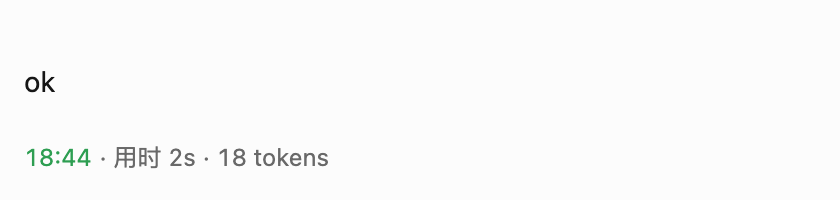
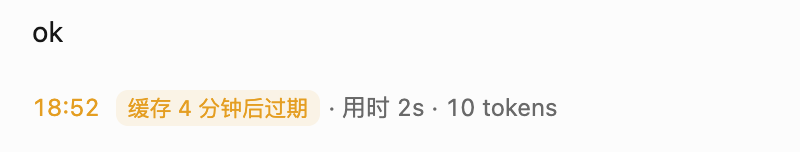
cache-clock 1.1: say nothing while warm, a pill when about to expire or expired; TTL and warning time as settings

diff --git a/cache-clock/index.tsx b/cache-clock/index.tsx
@@ -1,0 +1,30 @@
+/// <reference path="../gerdr.d.ts" />
+// Is the prompt cache still warm? Watches the time under the newest finished Claude Code turn:
+// nothing while the cache surely holds, a yellow note in its last minutes, a red one once it expired — then the next message
+// reads the whole conversation at full price (and slower).
+//
+// The cache lives TTL minutes from the start of the last request that read or wrote it (Claude Code on a subscription
+// uses the 1-hour TTL; API keys and usage overage get 5 minutes: set it in Settings → Add-ons). The turn's end
+// time is a little later than that start, so the estimate errs on the warm side by the last request's own duration.
+
+export default defineAddon({
+  setup(g) {
+    return g.turnStat((t) => {
+      if (!t.latest || !t.ts || t.agent !== "claude") return;
+      // Read each time: a change in Settings → Add-ons applies at once
+      const ttl = (g.settings.get<number>("ttlMinutes") || 60) * 60_000;
+      const warn = Math.min((g.settings.get<number>("warnMinutes") || 10) * 60_000, ttl);
+      const left = t.ts + ttl - t.now;
+      // Warm: say nothing, the line stays as it was. Only the last stretch and the expired state speak up, in a small
+      // pill beside the time (text, not a tooltip: a phone has no hover)
+      if (left >= warn) return;
+      const expired = left <= 0;
+      const text = expired ? "缓存已过期" : left < 60_000 ? "缓存不到 1 分钟就过期" : `缓存 ${Math.round(left / 60_000)} 分钟后过期`;
+      return {
+        className: expired ? "text-bad" : "text-warn",
+        title: expired ? "下一句会全价重读整段对话" : undefined,
+        after: <span className={g.ui.cn("ml-1 rounded-sm px-1.5 text-[11px] leading-[18px]", expired ? "bg-bad/10 text-bad" : "bg-warn/10 text-warn")}>{text}</span>,
+      };
+    });
+  },
+});

diff --git a/gerdr.d.ts b/gerdr.d.ts
@@ -4,7 +4,10 @@
 // An add-on is a folder in the add-on directory (~/.gerdr/addons/<id>/):
 //
 //   addon.json   optional: {"name": "…", "version": "1.0.0", "description": "…", "icon": "icon.png",
-//                           "main": "index.ts", "service": {…}}
+//                           "screenshots": ["shot.png"], "main": "index.ts", "service": {…}, "settings": [AddonSetting…]}
+//                "settings" become a form in Settings → Add-ons; read them with g.settings.get(key):
+//                  {"key": "ttl", "title": "缓存时长", "type": "number", "default": 60, "min": 1, "max": 1440, "unit": "分钟"}
+//                type: number / string / boolean / select (with "options": [{"value": 5, "label": "5 分钟"}])
 //   index.ts     the UI half (or what "main" names): export default defineAddon({...}). It may import other files of
 //                the folder; images, sounds and other files it ships are reached with g.asset("icon.png").
 //
@@ -185,6 +188,15 @@ declare global {
       runCommand(id: string): Promise<void>;
       /** Append text to a session's composer (what is typed there, not sent). */
       insertText(sessionId: string, text: string): void;
+    };
+
+    /**
+     * The values of addon.json "settings" as set in Settings → Add-ons (the default until changed). Stored by gerdr,
+     * the same in every window and device. Read it when you need it rather than once in setup: a change made in
+     * Settings shows up here without reloading the add-on.
+     */
+    settings: {
+      get<T = unknown>(key: string): T;
     };
 
     /** The add-on's own small storage (kept in this browser / App). */

diff --git a/cache-clock/README.md b/cache-clock/README.md
@@ -1,16 +1,26 @@
 # 缓存时钟
 
-最新一轮下面那个时间（`18:44 · 用时 2s · 18 tokens`）按 Claude Code 的提示缓存还剩多久变色：
+Claude Code 的提示缓存还在时什么都不显示。快过期时，最新一轮下面的时间变黄，旁边出现「缓存 N 分钟后过期」；过期了变红，显示「缓存已过期」—— 这时候下一句会全价重读整段对话，也更慢。
 
-- **绿色**：缓存还在，下一句便宜又快；
-- **黄色**：快过期了（最后 15%，按 1 小时算是最后 9 分钟）；
-- **红色**：已经过期，下一句要全价重读整段对话，也更慢。
+![快过期](screenshot.png)
 
-![缓存时钟](screenshot.png)
+![已过期](screenshot-expired.png)
 
-鼠标停在时间上能看到大概还剩几分钟。只看 Claude Code 会话的最新一轮（更早的那几轮的时间跟缓存无关）。
+只看 Claude Code 会话的最新一轮（更早几轮的时间跟缓存无关）。
 
-- 默认按 **1 小时**算：订阅账号的 Claude Code 用的是 1 小时缓存。用 API key、或者进了超额用量时是 5 分钟 —— 命令面板里「缓存时钟：切换 1 小时 / 5 分钟」。
-- 是估算：缓存从这一轮**最后一次请求开始**时算起，而这里用的是这一轮结束的时间，所以会比实际多估出最后那次请求自己的耗时（一般几秒到一两分钟）。
+## 设置
 
-用到的扩展能力：`g.turnStat` 装饰每轮下面那行、`g.command`、`g.storage`。
+在「设置 → 扩展 → 已安装 → 缓存时钟 → 设置」里改：
+
+- **缓存时长**（默认 60 分钟）：订阅账号的 Claude Code 是 60；用 API key 或进了超额用量是 5。
+- **提前多久提醒**（默认 10 分钟）：离过期还剩这么久时出现黄色提示。
+
+![设置](screenshot-settings.png)
+
+设置存在 gerdr 里，电脑和手机上一样，改了马上生效。
+
+## 准不准
+
+是估算：缓存从这一轮**最后一次请求开始**时算起，这里用的是这一轮结束的时间，所以会多估出最后那次请求自己的耗时（一般几秒到一两分钟）。
+
+用到的扩展能力：`g.turnStat` 装饰每轮下面那行、`addon.json` 的 `settings` + `g.settings.get`。

diff --git a/README.md b/README.md
@@ -6,7 +6,7 @@
 |---|---|
 | [今日](today) | 侧栏显示今天跑完了几个任务、花了多少钱，点开看 7 天 |
 | [额度条](usage-meter) | 侧栏底部常驻 Claude Code / Codex 的额度和重置时间 |
-| [缓存时钟](cache-clock) | 最新一轮的时间按提示缓存还剩多久变色：绿 / 黄 / 红 |
+| [缓存时钟](cache-clock) | 提示缓存快过期 / 已过期时，在最新一轮的时间旁边提醒；时长可设置 |
 | [常用短语](quick-phrases) | 输入框旁一个 ⚡，一点就填常说的话；右键把选中的文字引用到输入框 |
 | [复制 tab](duplicate-tab) | `prefix+a` / `prefix+i` 把当前 tab 复制到后面 / 前面 |
 | [跑完了通知我](notify-when-done) | 看不见的会话跑完了或在等你时，弹系统通知 |
@@ -32,6 +32,7 @@ my-addon/
 - **改名字**：`g.tabLabel` / `g.paneTitle` / `g.workspaceLabel` / `g.sessionTitle`。
 - **命令和快捷键**：`g.command`。
 - **听事件、做动作**：`g.on("turnEnd" | "needsInput" | "sessionCreated" | "focusChanged" | "stats")`、`g.actions.*`、`g.notify`。
+- **设置项**：`addon.json` 里写 `settings`（number / string / boolean / select），「设置 → 扩展」里自动生成表单，代码里 `g.settings.get(key)` 读；存在 gerdr 里，各设备一样。
 - **数据**：`g.state()`、`g.usage()`（额度）、`g.stats()`（每天完成数和花费）、`g.storage`。
 - **资源文件**：`g.asset("icon.png")` 拿到扩展文件夹里文件的地址。
 - **后台进程**：`addon.json` 里写 `service`，gerdr 后端负责起、挂了重启（比如一直连着蓝牙手环）。
